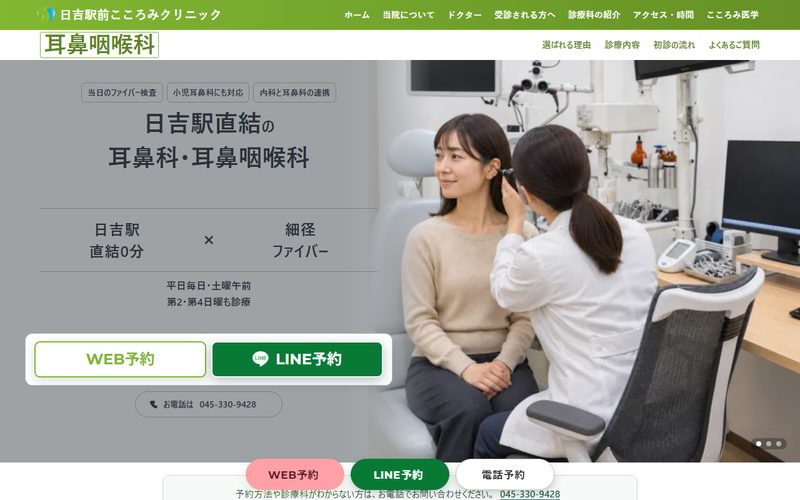
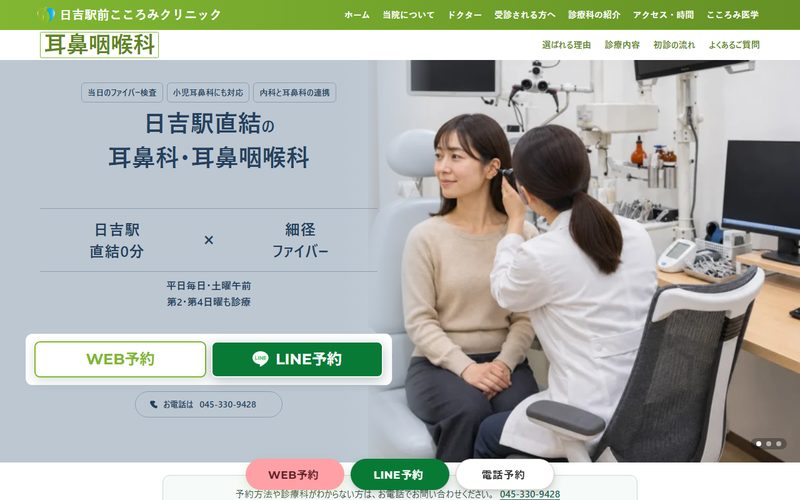
fix: 6をブルーグレーの濃いめ（グレー寄り）に（v0.15.0）
6 #9EA2A5（うすいグレー・文字 #2B3036）→ #BCC7D2（②のブルーグレー #41607F を白で35%に・文字 ネイビー #253F5C）。
読み込み版番号は ?v=0.15.0 に。

diff --git a/fv-patterns/checkups/index.html b/fv-patterns/checkups/index.html
@@ -5,8 +5,8 @@
 <meta name="robots" content="noindex,nofollow">
 <script>(function(){var h=document.documentElement,q=(location.search.match(/[?&]p=([1-7])\b/)||[])[1],s=null;try{s=localStorage.getItem("jFvPat")}catch(e){}var m=q||s||"1";if(!/^[1-7]$/.test(m))m="1";if(q){try{localStorage.setItem("jFvPat",m)}catch(e){}}h.classList.add("fvp","fv"+m,/^[1236]$/.test(m)?"fvL":"fvD")})();</script>
 
-<link rel="stylesheet" href="../assets/sample.css?v=0.14.0">
-<link rel="stylesheet" href="../assets/fvp.css?v=0.14.0">
+<link rel="stylesheet" href="../assets/sample.css?v=0.15.0">
+<link rel="stylesheet" href="../assets/fvp.css?v=0.15.0">
 
 
 
@@ -1674,7 +1674,7 @@ margin-block-end: 24px;
 var e="script#wp-emoji-settings",t=document.querySelector(e);if(!(t instanceof HTMLScriptElement))throw new Error("Element missing: "+e);const r=JSON.parse(t.text),s=(window._wpemojiSettings=r,"wpEmojiSettingsSupports"),o=["flag","emoji"];function i(e){try{var t={supportTests:e,timestamp:(new Date).valueOf()};sessionStorage.setItem(s,JSON.stringify(t))}catch(e){}}function c(e,t,n){e.clearRect(0,0,e.canvas.width,e.canvas.height),e.fillText(t,0,0);t=new Uint32Array(e.getImageData(0,0,e.canvas.width,e.canvas.height).data);e.clearRect(0,0,e.canvas.width,e.canvas.height),e.fillText(n,0,0);const r=new Uint32Array(e.getImageData(0,0,e.canvas.width,e.canvas.height).data);return t.every((e,t)=>e===r[t])}function p(e,t){e.clearRect(0,0,e.canvas.width,e.canvas.height),e.fillText(t,0,0);var n=e.getImageData(16,16,1,1);for(let e=0;e<n.data.length;e++)if(0!==n.data[e])return!1;return!0}function u(e,t,n,r){switch(t){case"flag":return n(e,"\ud83c\udff3\ufe0f\u200d\u26a7\ufe0f","\ud83c\udff3\ufe0f\u200b\u26a7\ufe0f")?!1:!n(e,"\ud83c\udde8\ud83c\uddf6","\ud83c\udde8\u200b\ud83c\uddf6")&&!n(e,"\ud83c\udff4\udb40\udc67\udb40\udc62\udb40\udc65\udb40\udc6e\udb40\udc67\udb40\udc7f","\ud83c\udff4\u200b\udb40\udc67\u200b\udb40\udc62\u200b\udb40\udc65\u200b\udb40\udc6e\u200b\udb40\udc67\u200b\udb40\udc7f");case"emoji":return!r(e,"\ud83e\u1fac8")}return!1}function f(e,t,n,r){let a;const s=(a="undefined"!=typeof WorkerGlobalScope&&self instanceof WorkerGlobalScope?new OffscreenCanvas(300,150):document.createElement("canvas")).getContext("2d",{willReadFrequently:!0}),o=(s.textBaseline="top",s.font="600 32px Arial",{});return e.forEach(e=>{o[e]=t(s,e,n,r)}),o}function a(e){var t=document.createElement("script");t.src=e,t.defer=!0,document.head.appendChild(t)}r.supports={everything:!0,everythingExceptFlag:!0},new Promise(t=>{let n=function(){try{var e=JSON.parse(sessionStorage.getItem(s));if("object"==typeof e&&"number"==typeof e.timestamp&&(new Date).valueOf()<e.timestamp+604800&&"object"==typeof e.supportTests)return e.supportTests}catch(e){}return null}();if(!n){if("undefined"!=typeof Worker&&"undefined"!=typeof OffscreenCanvas&&"undefined"!=typeof URL&&URL.createObjectURL&&"undefined"!=typeof Blob)try{var e="postMessage("+f.toString()+"("+[JSON.stringify(o),u.toString(),c.toString(),p.toString()].join(",")+"));",r=new Blob([e],{type:"text/javascript"});const a=new Worker(URL.createObjectURL(r),{name:"wpTestEmojiSupports"});return void(a.onmessage=e=>{i(n=e.data),a.terminate(),t(n)})}catch(e){}i(n=f(o,u,c,p))}t(n)}).then(e=>{for(const n in e)r.supports[n]=e[n],r.supports.everything=r.supports.everything&&r.supports[n],"flag"!==n&&(r.supports.everythingExceptFlag=r.supports.everythingExceptFlag&&r.supports[n]);var t;r.supports.everythingExceptFlag=r.supports.everythingExceptFlag&&!r.supports.flag,r.supports.everything||((t=r.source||{}).concatemoji?a(t.concatemoji):t.wpemoji&&t.twemoji&&(a(t.twemoji),a(t.wpemoji)))});
 //# sourceURL=https://hiyoshi-cocoromi-cl.jp/wp-includes/js/wp-emoji-loader.min.js
 </script>
-  <script src="../assets/fvp.js?v=0.14.0" data-page="checkups"></script>
+  <script src="../assets/fvp.js?v=0.15.0" data-page="checkups"></script>
 </body>
 </html>
 

diff --git a/fv-patterns/general/index.html b/fv-patterns/general/index.html
@@ -5,8 +5,8 @@
 <meta name="robots" content="noindex,nofollow">
 <script>(function(){var h=document.documentElement,q=(location.search.match(/[?&]p=([1-7])\b/)||[])[1],s=null;try{s=localStorage.getItem("jFvPat")}catch(e){}var m=q||s||"1";if(!/^[1-7]$/.test(m))m="1";if(q){try{localStorage.setItem("jFvPat",m)}catch(e){}}h.classList.add("fvp","fv"+m,/^[1236]$/.test(m)?"fvL":"fvD")})();</script>
 
-<link rel="stylesheet" href="../assets/sample.css?v=0.14.0">
-<link rel="stylesheet" href="../assets/fvp.css?v=0.14.0">
+<link rel="stylesheet" href="../assets/sample.css?v=0.15.0">
+<link rel="stylesheet" href="../assets/fvp.css?v=0.15.0">
 
 
 
@@ -1950,7 +1950,7 @@ margin-block-end: 24px;
 var e="script#wp-emoji-settings",t=document.querySelector(e);if(!(t instanceof HTMLScriptElement))throw new Error("Element missing: "+e);const r=JSON.parse(t.text),s=(window._wpemojiSettings=r,"wpEmojiSettingsSupports"),o=["flag","emoji"];function i(e){try{var t={supportTests:e,timestamp:(new Date).valueOf()};sessionStorage.setItem(s,JSON.stringify(t))}catch(e){}}function c(e,t,n){e.clearRect(0,0,e.canvas.width,e.canvas.height),e.fillText(t,0,0);t=new Uint32Array(e.getImageData(0,0,e.canvas.width,e.canvas.height).data);e.clearRect(0,0,e.canvas.width,e.canvas.height),e.fillText(n,0,0);const r=new Uint32Array(e.getImageData(0,0,e.canvas.width,e.canvas.height).data);return t.every((e,t)=>e===r[t])}function p(e,t){e.clearRect(0,0,e.canvas.width,e.canvas.height),e.fillText(t,0,0);var n=e.getImageData(16,16,1,1);for(let e=0;e<n.data.length;e++)if(0!==n.data[e])return!1;return!0}function u(e,t,n,r){switch(t){case"flag":return n(e,"\ud83c\udff3\ufe0f\u200d\u26a7\ufe0f","\ud83c\udff3\ufe0f\u200b\u26a7\ufe0f")?!1:!n(e,"\ud83c\udde8\ud83c\uddf6","\ud83c\udde8\u200b\ud83c\uddf6")&&!n(e,"\ud83c\udff4\udb40\udc67\udb40\udc62\udb40\udc65\udb40\udc6e\udb40\udc67\udb40\udc7f","\ud83c\udff4\u200b\udb40\udc67\u200b\udb40\udc62\u200b\udb40\udc65\u200b\udb40\udc6e\u200b\udb40\udc67\u200b\udb40\udc7f");case"emoji":return!r(e,"\ud83e\u1fac8")}return!1}function f(e,t,n,r){let a;const s=(a="undefined"!=typeof WorkerGlobalScope&&self instanceof WorkerGlobalScope?new OffscreenCanvas(300,150):document.createElement("canvas")).getContext("2d",{willReadFrequently:!0}),o=(s.textBaseline="top",s.font="600 32px Arial",{});return e.forEach(e=>{o[e]=t(s,e,n,r)}),o}function a(e){var t=document.createElement("script");t.src=e,t.defer=!0,document.head.appendChild(t)}r.supports={everything:!0,everythingExceptFlag:!0},new Promise(t=>{let n=function(){try{var e=JSON.parse(sessionStorage.getItem(s));if("object"==typeof e&&"number"==typeof e.timestamp&&(new Date).valueOf()<e.timestamp+604800&&"object"==typeof e.supportTests)return e.supportTests}catch(e){}return null}();if(!n){if("undefined"!=typeof Worker&&"undefined"!=typeof OffscreenCanvas&&"undefined"!=typeof URL&&URL.createObjectURL&&"undefined"!=typeof Blob)try{var e="postMessage("+f.toString()+"("+[JSON.stringify(o),u.toString(),c.toString(),p.toString()].join(",")+"));",r=new Blob([e],{type:"text/javascript"});const a=new Worker(URL.createObjectURL(r),{name:"wpTestEmojiSupports"});return void(a.onmessage=e=>{i(n=e.data),a.terminate(),t(n)})}catch(e){}i(n=f(o,u,c,p))}t(n)}).then(e=>{for(const n in e)r.supports[n]=e[n],r.supports.everything=r.supports.everything&&r.supports[n],"flag"!==n&&(r.supports.everythingExceptFlag=r.supports.everythingExceptFlag&&r.supports[n]);var t;r.supports.everythingExceptFlag=r.supports.everythingExceptFlag&&!r.supports.flag,r.supports.everything||((t=r.source||{}).concatemoji?a(t.concatemoji):t.wpemoji&&t.twemoji&&(a(t.twemoji),a(t.wpemoji)))});
 //# sourceURL=https://hiyoshi-cocoromi-cl.jp/wp-includes/js/wp-emoji-loader.min.js
 </script>
-  <script src="../assets/fvp.js?v=0.14.0" data-page="general"></script>
+  <script src="../assets/fvp.js?v=0.15.0" data-page="general"></script>
 </body>
 </html>
 

diff --git a/fv-patterns/gastro/index.html b/fv-patterns/gastro/index.html
@@ -5,8 +5,8 @@
 <meta name="robots" content="noindex,nofollow">
 <script>(function(){var h=document.documentElement,q=(location.search.match(/[?&]p=([1-7])\b/)||[])[1],s=null;try{s=localStorage.getItem("jFvPat")}catch(e){}var m=q||s||"1";if(!/^[1-7]$/.test(m))m="1";if(q){try{localStorage.setItem("jFvPat",m)}catch(e){}}h.classList.add("fvp","fv"+m,/^[1236]$/.test(m)?"fvL":"fvD")})();</script>
 
-<link rel="stylesheet" href="../assets/sample.css?v=0.14.0">
-<link rel="stylesheet" href="../assets/fvp.css?v=0.14.0">
+<link rel="stylesheet" href="../assets/sample.css?v=0.15.0">
+<link rel="stylesheet" href="../assets/fvp.css?v=0.15.0">
 
 
 
@@ -2147,7 +2147,7 @@ margin-block-end: 24px;
 var e="script#wp-emoji-settings",t=document.querySelector(e);if(!(t instanceof HTMLScriptElement))throw new Error("Element missing: "+e);const r=JSON.parse(t.text),s=(window._wpemojiSettings=r,"wpEmojiSettingsSupports"),o=["flag","emoji"];function i(e){try{var t={supportTests:e,timestamp:(new Date).valueOf()};sessionStorage.setItem(s,JSON.stringify(t))}catch(e){}}function c(e,t,n){e.clearRect(0,0,e.canvas.width,e.canvas.height),e.fillText(t,0,0);t=new Uint32Array(e.getImageData(0,0,e.canvas.width,e.canvas.height).data);e.clearRect(0,0,e.canvas.width,e.canvas.height),e.fillText(n,0,0);const r=new Uint32Array(e.getImageData(0,0,e.canvas.width,e.canvas.height).data);return t.every((e,t)=>e===r[t])}function p(e,t){e.clearRect(0,0,e.canvas.width,e.canvas.height),e.fillText(t,0,0);var n=e.getImageData(16,16,1,1);for(let e=0;e<n.data.length;e++)if(0!==n.data[e])return!1;return!0}function u(e,t,n,r){switch(t){case"flag":return n(e,"\ud83c\udff3\ufe0f\u200d\u26a7\ufe0f","\ud83c\udff3\ufe0f\u200b\u26a7\ufe0f")?!1:!n(e,"\ud83c\udde8\ud83c\uddf6","\ud83c\udde8\u200b\ud83c\uddf6")&&!n(e,"\ud83c\udff4\udb40\udc67\udb40\udc62\udb40\udc65\udb40\udc6e\udb40\udc67\udb40\udc7f","\ud83c\udff4\u200b\udb40\udc67\u200b\udb40\udc62\u200b\udb40\udc65\u200b\udb40\udc6e\u200b\udb40\udc67\u200b\udb40\udc7f");case"emoji":return!r(e,"\ud83e\u1fac8")}return!1}function f(e,t,n,r){let a;const s=(a="undefined"!=typeof WorkerGlobalScope&&self instanceof WorkerGlobalScope?new OffscreenCanvas(300,150):document.createElement("canvas")).getContext("2d",{willReadFrequently:!0}),o=(s.textBaseline="top",s.font="600 32px Arial",{});return e.forEach(e=>{o[e]=t(s,e,n,r)}),o}function a(e){var t=document.createElement("script");t.src=e,t.defer=!0,document.head.appendChild(t)}r.supports={everything:!0,everythingExceptFlag:!0},new Promise(t=>{let n=function(){try{var e=JSON.parse(sessionStorage.getItem(s));if("object"==typeof e&&"number"==typeof e.timestamp&&(new Date).valueOf()<e.timestamp+604800&&"object"==typeof e.supportTests)return e.supportTests}catch(e){}return null}();if(!n){if("undefined"!=typeof Worker&&"undefined"!=typeof OffscreenCanvas&&"undefined"!=typeof URL&&URL.createObjectURL&&"undefined"!=typeof Blob)try{var e="postMessage("+f.toString()+"("+[JSON.stringify(o),u.toString(),c.toString(),p.toString()].join(",")+"));",r=new Blob([e],{type:"text/javascript"});const a=new Worker(URL.createObjectURL(r),{name:"wpTestEmojiSupports"});return void(a.onmessage=e=>{i(n=e.data),a.terminate(),t(n)})}catch(e){}i(n=f(o,u,c,p))}t(n)}).then(e=>{for(const n in e)r.supports[n]=e[n],r.supports.everything=r.supports.everything&&r.supports[n],"flag"!==n&&(r.supports.everythingExceptFlag=r.supports.everythingExceptFlag&&r.supports[n]);var t;r.supports.everythingExceptFlag=r.supports.everythingExceptFlag&&!r.supports.flag,r.supports.everything||((t=r.source||{}).concatemoji?a(t.concatemoji):t.wpemoji&&t.twemoji&&(a(t.twemoji),a(t.wpemoji)))});
 //# sourceURL=https://hiyoshi-cocoromi-cl.jp/wp-includes/js/wp-emoji-loader.min.js
 </script>
-  <script src="../assets/fvp.js?v=0.14.0" data-page="gastro"></script>
+  <script src="../assets/fvp.js?v=0.15.0" data-page="gastro"></script>
 </body>
 </html>
 

diff --git a/fv-patterns/mental/index.html b/fv-patterns/mental/index.html
@@ -5,8 +5,8 @@
 <meta name="robots" content="noindex,nofollow">
 <script>(function(){var h=document.documentElement,q=(location.search.match(/[?&]p=([1-7])\b/)||[])[1],s=null;try{s=localStorage.getItem("jFvPat")}catch(e){}var m=q||s||"1";if(!/^[1-7]$/.test(m))m="1";if(q){try{localStorage.setItem("jFvPat",m)}catch(e){}}h.classList.add("fvp","fv"+m,/^[1236]$/.test(m)?"fvL":"fvD")})();</script>
 
-<link rel="stylesheet" href="../assets/sample.css?v=0.14.0">
-<link rel="stylesheet" href="../assets/fvp.css?v=0.14.0">
+<link rel="stylesheet" href="../assets/sample.css?v=0.15.0">
+<link rel="stylesheet" href="../assets/fvp.css?v=0.15.0">
 
 
 
@@ -1375,7 +1375,7 @@ margin-block-end: 24px;
 var e="script#wp-emoji-settings",t=document.querySelector(e);if(!(t instanceof HTMLScriptElement))throw new Error("Element missing: "+e);const r=JSON.parse(t.text),s=(window._wpemojiSettings=r,"wpEmojiSettingsSupports"),o=["flag","emoji"];function i(e){try{var t={supportTests:e,timestamp:(new Date).valueOf()};sessionStorage.setItem(s,JSON.stringify(t))}catch(e){}}function c(e,t,n){e.clearRect(0,0,e.canvas.width,e.canvas.height),e.fillText(t,0,0);t=new Uint32Array(e.getImageData(0,0,e.canvas.width,e.canvas.height).data);e.clearRect(0,0,e.canvas.width,e.canvas.height),e.fillText(n,0,0);const r=new Uint32Array(e.getImageData(0,0,e.canvas.width,e.canvas.height).data);return t.every((e,t)=>e===r[t])}function p(e,t){e.clearRect(0,0,e.canvas.width,e.canvas.height),e.fillText(t,0,0);var n=e.getImageData(16,16,1,1);for(let e=0;e<n.data.length;e++)if(0!==n.data[e])return!1;return!0}function u(e,t,n,r){switch(t){case"flag":return n(e,"\ud83c\udff3\ufe0f\u200d\u26a7\ufe0f","\ud83c\udff3\ufe0f\u200b\u26a7\ufe0f")?!1:!n(e,"\ud83c\udde8\ud83c\uddf6","\ud83c\udde8\u200b\ud83c\uddf6")&&!n(e,"\ud83c\udff4\udb40\udc67\udb40\udc62\udb40\udc65\udb40\udc6e\udb40\udc67\udb40\udc7f","\ud83c\udff4\u200b\udb40\udc67\u200b\udb40\udc62\u200b\udb40\udc65\u200b\udb40\udc6e\u200b\udb40\udc67\u200b\udb40\udc7f");case"emoji":return!r(e,"\ud83e\u1fac8")}return!1}function f(e,t,n,r){let a;const s=(a="undefined"!=typeof WorkerGlobalScope&&self instanceof WorkerGlobalScope?new OffscreenCanvas(300,150):document.createElement("canvas")).getContext("2d",{willReadFrequently:!0}),o=(s.textBaseline="top",s.font="600 32px Arial",{});return e.forEach(e=>{o[e]=t(s,e,n,r)}),o}function a(e){var t=document.createElement("script");t.src=e,t.defer=!0,document.head.appendChild(t)}r.supports={everything:!0,everythingExceptFlag:!0},new Promise(t=>{let n=function(){try{var e=JSON.parse(sessionStorage.getItem(s));if("object"==typeof e&&"number"==typeof e.timestamp&&(new Date).valueOf()<e.timestamp+604800&&"object"==typeof e.supportTests)return e.supportTests}catch(e){}return null}();if(!n){if("undefined"!=typeof Worker&&"undefined"!=typeof OffscreenCanvas&&"undefined"!=typeof URL&&URL.createObjectURL&&"undefined"!=typeof Blob)try{var e="postMessage("+f.toString()+"("+[JSON.stringify(o),u.toString(),c.toString(),p.toString()].join(",")+"));",r=new Blob([e],{type:"text/javascript"});const a=new Worker(URL.createObjectURL(r),{name:"wpTestEmojiSupports"});return void(a.onmessage=e=>{i(n=e.data),a.terminate(),t(n)})}catch(e){}i(n=f(o,u,c,p))}t(n)}).then(e=>{for(const n in e)r.supports[n]=e[n],r.supports.everything=r.supports.everything&&r.supports[n],"flag"!==n&&(r.supports.everythingExceptFlag=r.supports.everythingExceptFlag&&r.supports[n]);var t;r.supports.everythingExceptFlag=r.supports.everythingExceptFlag&&!r.supports.flag,r.supports.everything||((t=r.source||{}).concatemoji?a(t.concatemoji):t.wpemoji&&t.twemoji&&(a(t.twemoji),a(t.wpemoji)))});
 //# sourceURL=https://hiyoshi-cocoromi-cl.jp/wp-includes/js/wp-emoji-loader.min.js
 </script>
-  <script src="../assets/fvp.js?v=0.14.0" data-page="mental"></script>
+  <script src="../assets/fvp.js?v=0.15.0" data-page="mental"></script>
 </body>
 </html>
 

diff --git a/fv-patterns/fever/index.html b/fv-patterns/fever/index.html
@@ -4,8 +4,8 @@
 <meta name="robots" content="noindex,nofollow">
 <script>(function(){var h=document.documentElement,q=(location.search.match(/[?&]p=([1-7])\b/)||[])[1],s=null;try{s=localStorage.getItem("jFvPat")}catch(e){}var m=q||s||"1";if(!/^[1-7]$/.test(m))m="1";if(q){try{localStorage.setItem("jFvPat",m)}catch(e){}}h.classList.add("fvp","fv"+m,/^[1236]$/.test(m)?"fvL":"fvD")})();</script>
 
-<link rel="stylesheet" href="../assets/sample.css?v=0.14.0">
-<link rel="stylesheet" href="../assets/fvp.css?v=0.14.0">
+<link rel="stylesheet" href="../assets/sample.css?v=0.15.0">
+<link rel="stylesheet" href="../assets/fvp.css?v=0.15.0">
 
 
 
@@ -1501,7 +1501,7 @@ margin-block-end: 24px;
 var e="script#wp-emoji-settings",t=document.querySelector(e);if(!(t instanceof HTMLScriptElement))throw new Error("Element missing: "+e);const r=JSON.parse(t.text),s=(window._wpemojiSettings=r,"wpEmojiSettingsSupports"),o=["flag","emoji"];function i(e){try{var t={supportTests:e,timestamp:(new Date).valueOf()};sessionStorage.setItem(s,JSON.stringify(t))}catch(e){}}function c(e,t,n){e.clearRect(0,0,e.canvas.width,e.canvas.height),e.fillText(t,0,0);t=new Uint32Array(e.getImageData(0,0,e.canvas.width,e.canvas.height).data);e.clearRect(0,0,e.canvas.width,e.canvas.height),e.fillText(n,0,0);const r=new Uint32Array(e.getImageData(0,0,e.canvas.width,e.canvas.height).data);return t.every((e,t)=>e===r[t])}function p(e,t){e.clearRect(0,0,e.canvas.width,e.canvas.height),e.fillText(t,0,0);var n=e.getImageData(16,16,1,1);for(let e=0;e<n.data.length;e++)if(0!==n.data[e])return!1;return!0}function u(e,t,n,r){switch(t){case"flag":return n(e,"\ud83c\udff3\ufe0f\u200d\u26a7\ufe0f","\ud83c\udff3\ufe0f\u200b\u26a7\ufe0f")?!1:!n(e,"\ud83c\udde8\ud83c\uddf6","\ud83c\udde8\u200b\ud83c\uddf6")&&!n(e,"\ud83c\udff4\udb40\udc67\udb40\udc62\udb40\udc65\udb40\udc6e\udb40\udc67\udb40\udc7f","\ud83c\udff4\u200b\udb40\udc67\u200b\udb40\udc62\u200b\udb40\udc65\u200b\udb40\udc6e\u200b\udb40\udc67\u200b\udb40\udc7f");case"emoji":return!r(e,"\ud83e\u1fac8")}return!1}function f(e,t,n,r){let a;const s=(a="undefined"!=typeof WorkerGlobalScope&&self instanceof WorkerGlobalScope?new OffscreenCanvas(300,150):document.createElement("canvas")).getContext("2d",{willReadFrequently:!0}),o=(s.textBaseline="top",s.font="600 32px Arial",{});return e.forEach(e=>{o[e]=t(s,e,n,r)}),o}function a(e){var t=document.createElement("script");t.src=e,t.defer=!0,document.head.appendChild(t)}r.supports={everything:!0,everythingExceptFlag:!0},new Promise(t=>{let n=function(){try{var e=JSON.parse(sessionStorage.getItem(s));if("object"==typeof e&&"number"==typeof e.timestamp&&(new Date).valueOf()<e.timestamp+604800&&"object"==typeof e.supportTests)return e.supportTests}catch(e){}return null}();if(!n){if("undefined"!=typeof Worker&&"undefined"!=typeof OffscreenCanvas&&"undefined"!=typeof URL&&URL.createObjectURL&&"undefined"!=typeof Blob)try{var e="postMessage("+f.toString()+"("+[JSON.stringify(o),u.toString(),c.toString(),p.toString()].join(",")+"));",r=new Blob([e],{type:"text/javascript"});const a=new Worker(URL.createObjectURL(r),{name:"wpTestEmojiSupports"});return void(a.onmessage=e=>{i(n=e.data),a.terminate(),t(n)})}catch(e){}i(n=f(o,u,c,p))}t(n)}).then(e=>{for(const n in e)r.supports[n]=e[n],r.supports.everything=r.supports.everything&&r.supports[n],"flag"!==n&&(r.supports.everythingExceptFlag=r.supports.everythingExceptFlag&&r.supports[n]);var t;r.supports.everythingExceptFlag=r.supports.everythingExceptFlag&&!r.supports.flag,r.supports.everything||((t=r.source||{}).concatemoji?a(t.concatemoji):t.wpemoji&&t.twemoji&&(a(t.twemoji),a(t.wpemoji)))});
 //# sourceURL=https://hiyoshi-cocoromi-cl.jp/wp-includes/js/wp-emoji-loader.min.js
 </script>
-  <script src="../assets/fvp.js?v=0.14.0" data-page="fever"></script>
+  <script src="../assets/fvp.js?v=0.15.0" data-page="fever"></script>
 </body>
 </html>
 

diff --git a/fv-patterns/derm/index.html b/fv-patterns/derm/index.html
@@ -5,8 +5,8 @@
 <meta name="robots" content="noindex,nofollow">
 <script>(function(){var h=document.documentElement,q=(location.search.match(/[?&]p=([1-7])\b/)||[])[1],s=null;try{s=localStorage.getItem("jFvPat")}catch(e){}var m=q||s||"1";if(!/^[1-7]$/.test(m))m="1";if(q){try{localStorage.setItem("jFvPat",m)}catch(e){}}h.classList.add("fvp","fv"+m,/^[1236]$/.test(m)?"fvL":"fvD")})();</script>
 
-<link rel="stylesheet" href="../assets/sample.css?v=0.14.0">
-<link rel="stylesheet" href="../assets/fvp.css?v=0.14.0">
+<link rel="stylesheet" href="../assets/sample.css?v=0.15.0">
+<link rel="stylesheet" href="../assets/fvp.css?v=0.15.0">
 
 
 
@@ -1524,7 +1524,7 @@ margin-block-end: 24px;
 var e="script#wp-emoji-settings",t=document.querySelector(e);if(!(t instanceof HTMLScriptElement))throw new Error("Element missing: "+e);const r=JSON.parse(t.text),s=(window._wpemojiSettings=r,"wpEmojiSettingsSupports"),o=["flag","emoji"];function i(e){try{var t={supportTests:e,timestamp:(new Date).valueOf()};sessionStorage.setItem(s,JSON.stringify(t))}catch(e){}}function c(e,t,n){e.clearRect(0,0,e.canvas.width,e.canvas.height),e.fillText(t,0,0);t=new Uint32Array(e.getImageData(0,0,e.canvas.width,e.canvas.height).data);e.clearRect(0,0,e.canvas.width,e.canvas.height),e.fillText(n,0,0);const r=new Uint32Array(e.getImageData(0,0,e.canvas.width,e.canvas.height).data);return t.every((e,t)=>e===r[t])}function p(e,t){e.clearRect(0,0,e.canvas.width,e.canvas.height),e.fillText(t,0,0);var n=e.getImageData(16,16,1,1);for(let e=0;e<n.data.length;e++)if(0!==n.data[e])return!1;return!0}function u(e,t,n,r){switch(t){case"flag":return n(e,"\ud83c\udff3\ufe0f\u200d\u26a7\ufe0f","\ud83c\udff3\ufe0f\u200b\u26a7\ufe0f")?!1:!n(e,"\ud83c\udde8\ud83c\uddf6","\ud83c\udde8\u200b\ud83c\uddf6")&&!n(e,"\ud83c\udff4\udb40\udc67\udb40\udc62\udb40\udc65\udb40\udc6e\udb40\udc67\udb40\udc7f","\ud83c\udff4\u200b\udb40\udc67\u200b\udb40\udc62\u200b\udb40\udc65\u200b\udb40\udc6e\u200b\udb40\udc67\u200b\udb40\udc7f");case"emoji":return!r(e,"\ud83e\u1fac8")}return!1}function f(e,t,n,r){let a;const s=(a="undefined"!=typeof WorkerGlobalScope&&self instanceof WorkerGlobalScope?new OffscreenCanvas(300,150):document.createElement("canvas")).getContext("2d",{willReadFrequently:!0}),o=(s.textBaseline="top",s.font="600 32px Arial",{});return e.forEach(e=>{o[e]=t(s,e,n,r)}),o}function a(e){var t=document.createElement("script");t.src=e,t.defer=!0,document.head.appendChild(t)}r.supports={everything:!0,everythingExceptFlag:!0},new Promise(t=>{let n=function(){try{var e=JSON.parse(sessionStorage.getItem(s));if("object"==typeof e&&"number"==typeof e.timestamp&&(new Date).valueOf()<e.timestamp+604800&&"object"==typeof e.supportTests)return e.supportTests}catch(e){}return null}();if(!n){if("undefined"!=typeof Worker&&"undefined"!=typeof OffscreenCanvas&&"undefined"!=typeof URL&&URL.createObjectURL&&"undefined"!=typeof Blob)try{var e="postMessage("+f.toString()+"("+[JSON.stringify(o),u.toString(),c.toString(),p.toString()].join(",")+"));",r=new Blob([e],{type:"text/javascript"});const a=new Worker(URL.createObjectURL(r),{name:"wpTestEmojiSupports"});return void(a.onmessage=e=>{i(n=e.data),a.terminate(),t(n)})}catch(e){}i(n=f(o,u,c,p))}t(n)}).then(e=>{for(const n in e)r.supports[n]=e[n],r.supports.everything=r.supports.everything&&r.supports[n],"flag"!==n&&(r.supports.everythingExceptFlag=r.supports.everythingExceptFlag&&r.supports[n]);var t;r.supports.everythingExceptFlag=r.supports.everythingExceptFlag&&!r.supports.flag,r.supports.everything||((t=r.source||{}).concatemoji?a(t.concatemoji):t.wpemoji&&t.twemoji&&(a(t.twemoji),a(t.wpemoji)))});
 //# sourceURL=https://hiyoshi-cocoromi-cl.jp/wp-includes/js/wp-emoji-loader.min.js
 </script>
-  <script src="../assets/fvp.js?v=0.14.0" data-page="derm"></script>
+  <script src="../assets/fvp.js?v=0.15.0" data-page="derm"></script>
 </body>
 </html>
 

diff --git a/fv-patterns/ent/index.html b/fv-patterns/ent/index.html
@@ -5,8 +5,8 @@
 <meta name="robots" content="noindex,nofollow">
 <script>(function(){var h=document.documentElement,q=(location.search.match(/[?&]p=([1-7])\b/)||[])[1],s=null;try{s=localStorage.getItem("jFvPat")}catch(e){}var m=q||s||"1";if(!/^[1-7]$/.test(m))m="1";if(q){try{localStorage.setItem("jFvPat",m)}catch(e){}}h.classList.add("fvp","fv"+m,/^[1236]$/.test(m)?"fvL":"fvD")})();</script>
 
-<link rel="stylesheet" href="../assets/sample.css?v=0.14.0">
-<link rel="stylesheet" href="../assets/fvp.css?v=0.14.0">
+<link rel="stylesheet" href="../assets/sample.css?v=0.15.0">
+<link rel="stylesheet" href="../assets/fvp.css?v=0.15.0">
 
 
 
@@ -1486,7 +1486,7 @@ margin-block-end: 24px;
 var e="script#wp-emoji-settings",t=document.querySelector(e);if(!(t instanceof HTMLScriptElement))throw new Error("Element missing: "+e);const r=JSON.parse(t.text),s=(window._wpemojiSettings=r,"wpEmojiSettingsSupports"),o=["flag","emoji"];function i(e){try{var t={supportTests:e,timestamp:(new Date).valueOf()};sessionStorage.setItem(s,JSON.stringify(t))}catch(e){}}function c(e,t,n){e.clearRect(0,0,e.canvas.width,e.canvas.height),e.fillText(t,0,0);t=new Uint32Array(e.getImageData(0,0,e.canvas.width,e.canvas.height).data);e.clearRect(0,0,e.canvas.width,e.canvas.height),e.fillText(n,0,0);const r=new Uint32Array(e.getImageData(0,0,e.canvas.width,e.canvas.height).data);return t.every((e,t)=>e===r[t])}function p(e,t){e.clearRect(0,0,e.canvas.width,e.canvas.height),e.fillText(t,0,0);var n=e.getImageData(16,16,1,1);for(let e=0;e<n.data.length;e++)if(0!==n.data[e])return!1;return!0}function u(e,t,n,r){switch(t){case"flag":return n(e,"\ud83c\udff3\ufe0f\u200d\u26a7\ufe0f","\ud83c\udff3\ufe0f\u200b\u26a7\ufe0f")?!1:!n(e,"\ud83c\udde8\ud83c\uddf6","\ud83c\udde8\u200b\ud83c\uddf6")&&!n(e,"\ud83c\udff4\udb40\udc67\udb40\udc62\udb40\udc65\udb40\udc6e\udb40\udc67\udb40\udc7f","\ud83c\udff4\u200b\udb40\udc67\u200b\udb40\udc62\u200b\udb40\udc65\u200b\udb40\udc6e\u200b\udb40\udc67\u200b\udb40\udc7f");case"emoji":return!r(e,"\ud83e\u1fac8")}return!1}function f(e,t,n,r){let a;const s=(a="undefined"!=typeof WorkerGlobalScope&&self instanceof WorkerGlobalScope?new OffscreenCanvas(300,150):document.createElement("canvas")).getContext("2d",{willReadFrequently:!0}),o=(s.textBaseline="top",s.font="600 32px Arial",{});return e.forEach(e=>{o[e]=t(s,e,n,r)}),o}function a(e){var t=document.createElement("script");t.src=e,t.defer=!0,document.head.appendChild(t)}r.supports={everything:!0,everythingExceptFlag:!0},new Promise(t=>{let n=function(){try{var e=JSON.parse(sessionStorage.getItem(s));if("object"==typeof e&&"number"==typeof e.timestamp&&(new Date).valueOf()<e.timestamp+604800&&"object"==typeof e.supportTests)return e.supportTests}catch(e){}return null}();if(!n){if("undefined"!=typeof Worker&&"undefined"!=typeof OffscreenCanvas&&"undefined"!=typeof URL&&URL.createObjectURL&&"undefined"!=typeof Blob)try{var e="postMessage("+f.toString()+"("+[JSON.stringify(o),u.toString(),c.toString(),p.toString()].join(",")+"));",r=new Blob([e],{type:"text/javascript"});const a=new Worker(URL.createObjectURL(r),{name:"wpTestEmojiSupports"});return void(a.onmessage=e=>{i(n=e.data),a.terminate(),t(n)})}catch(e){}i(n=f(o,u,c,p))}t(n)}).then(e=>{for(const n in e)r.supports[n]=e[n],r.supports.everything=r.supports.everything&&r.supports[n],"flag"!==n&&(r.supports.everythingExceptFlag=r.supports.everythingExceptFlag&&r.supports[n]);var t;r.supports.everythingExceptFlag=r.supports.everythingExceptFlag&&!r.supports.flag,r.supports.everything||((t=r.source||{}).concatemoji?a(t.concatemoji):t.wpemoji&&t.twemoji&&(a(t.twemoji),a(t.wpemoji)))});
 //# sourceURL=https://hiyoshi-cocoromi-cl.jp/wp-includes/js/wp-emoji-loader.min.js
 </script>
-  <script src="../assets/fvp.js?v=0.14.0" data-page="ent"></script>
+  <script src="../assets/fvp.js?v=0.15.0" data-page="ent"></script>
 </body>
 </html>
 

diff --git a/fv-patterns/index.html b/fv-patterns/index.html
@@ -4,7 +4,7 @@
 <meta charset="utf-8">
 <meta name="viewport" content="width=device-width, initial-scale=1">
 <meta name="robots" content="noindex,nofollow">
-<meta name="version" content="0.14.0">
+<meta name="version" content="0.15.0">
 <title>日吉 最初の画面の背景7案</title>
 <style>
 :root{--bg:#faf8f6;--card:#fff;--ink:#1f1d1b;--sub:#625b55;--line:#e6e0d9}
@@ -120,8 +120,8 @@ a:focus-visible{outline:3px solid #6a9bff;outline-offset:2px}
 </section>
 
 <section class="pat" aria-labelledby="p6-h">
-<div class="pat-h"><span class="no">6</span><h2 id="p6-h">うすいグレー（追加）</h2><span class="sw"><i style="background:#9EA2A5"></i><code>#9EA2A5</code>　文字 <i style="background:#2B3036"></i><code>#2B3036</code></span></div>
-<p>4のグレー <code>#686D72</code> より少しうすいグレーです（白で36%薄めた色）。写真の色はそのまま出ます。4より明るいグレーでは白い文字が読みにくくなる（読みやすさの基準に届かない）ため、文字は濃いグレー（案2で使った色）にしました。</p>
+<div class="pat-h"><span class="no">6</span><h2 id="p6-h">ブルーグレー濃いめ（追加）</h2><span class="sw"><i style="background:#BCC7D2"></i><code>#BCC7D2</code>　文字 <i style="background:#253F5C"></i><code>#253F5C</code></span></div>
+<p>1のブルーグレーをもう少し濃くした、グレーに近いブルーグレーです（②で使ったブルーグレー <code>#41607F</code> を白で薄めた色）。文字は1と同じネイビー。1より落ち着き、4のグレーよりは明るく青みがあります。</p>
 <div class="shots">
 <a href="top/?p=6"><img src="img/p6-top.jpg" width="800" height="500" loading="lazy" alt="パターン6のトップの最初の画面"><span>トップ</span></a>
 <a href="general/?p=6"><img src="img/p6-general.jpg" width="800" height="500" loading="lazy" alt="パターン6の総合内科の最初の画面"><span>総合内科</span></a>

diff --git a/fv-patterns/assets/fvp.js b/fv-patterns/assets/fvp.js
@@ -1,4 +1,4 @@
-/* 最初の画面の背景7パターンの見本：パネル（パターンの切り替え＋ページ移動） v0.14.0（v0.12.0 は5パターン、v0.13.0 で6・7を追加、v0.14.0 で6・7の濃さを変更）
+/* 最初の画面の背景7パターンの見本：パネル（パターンの切り替え＋ページ移動） v0.15.0（v0.12.0 は5パターン、v0.13.0 で6・7を追加、v0.14.0 で6・7の濃さを変更、v0.15.0 で6をブルーグレー濃いめに）
    パターンは html の fv1〜fv7（と fvL＝明るい背景 1〜3・6 ／ fvD＝暗い背景 4・5・7）で切り替わる。<head> のスクリプトが ?p= か記憶（jFvPat）から最初の値を決める
    ?shot=1 のときはパネルを出さない（説明ページの縮小画像を撮るため） */
 (function () {
@@ -13,7 +13,7 @@
     ['3', 'おまかせ', '#FFFFFF', 'おまかせ：白＋各科の濃い色の文字'],
     ['4', 'グレー', '#686D72', 'グレー＋写真の色味をおさえる'],
     ['5', 'ネイビー', '#253F5C', 'ネイビー（②の色）'],
-    ['6', 'うすいグレー', '#9EA2A5', 'うすいグレー（④のグレーより少しうすく）'],
+    ['6', 'ブルーグレー濃いめ', '#BCC7D2', 'ブルーグレー濃いめ（①より濃く、グレー寄り）'],
     ['7', 'うすいネイビー', '#5C6F85', 'うすいネイビー（⑤のネイビーより少しうすく）']
   ];
   var h = document.documentElement;

diff --git a/fv-patterns/top/index.html b/fv-patterns/top/index.html
@@ -4,8 +4,8 @@
 <meta name="robots" content="noindex,nofollow">
 <script>(function(){var h=document.documentElement,q=(location.search.match(/[?&]p=([1-7])\b/)||[])[1],s=null;try{s=localStorage.getItem("jFvPat")}catch(e){}var m=q||s||"1";if(!/^[1-7]$/.test(m))m="1";if(q){try{localStorage.setItem("jFvPat",m)}catch(e){}}h.classList.add("fvp","fv"+m,/^[1236]$/.test(m)?"fvL":"fvD")})();</script>
 
-<link rel="stylesheet" href="../assets/sample.css?v=0.14.0">
-<link rel="stylesheet" href="../assets/fvp.css?v=0.14.0">
+<link rel="stylesheet" href="../assets/sample.css?v=0.15.0">
+<link rel="stylesheet" href="../assets/fvp.css?v=0.15.0">
 
 
 
@@ -1630,7 +1630,7 @@ body>main#main-content{padding:50px 0}
         </symbol>
       </defs>
     </svg>
-<script src="../assets/fvp.js?v=0.14.0" data-page="top"></script>
+<script src="../assets/fvp.js?v=0.15.0" data-page="top"></script>
 </body>
 </html>
 
